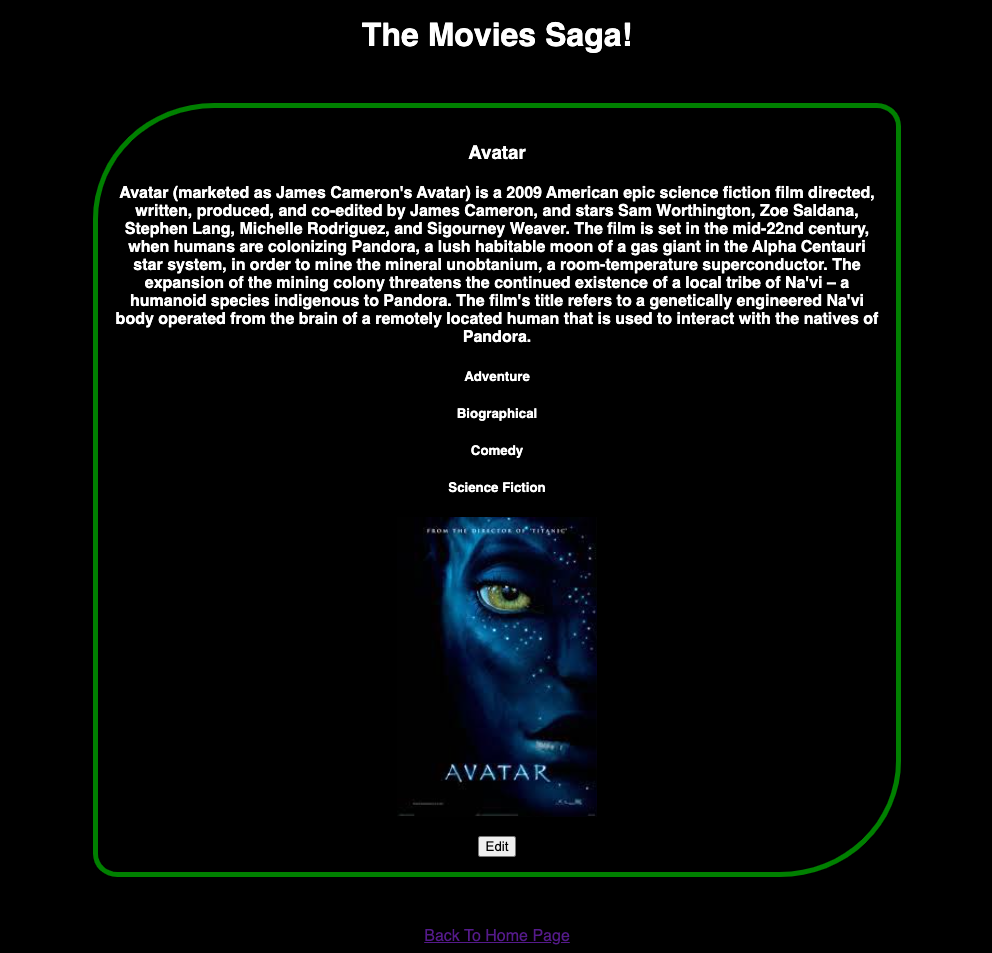
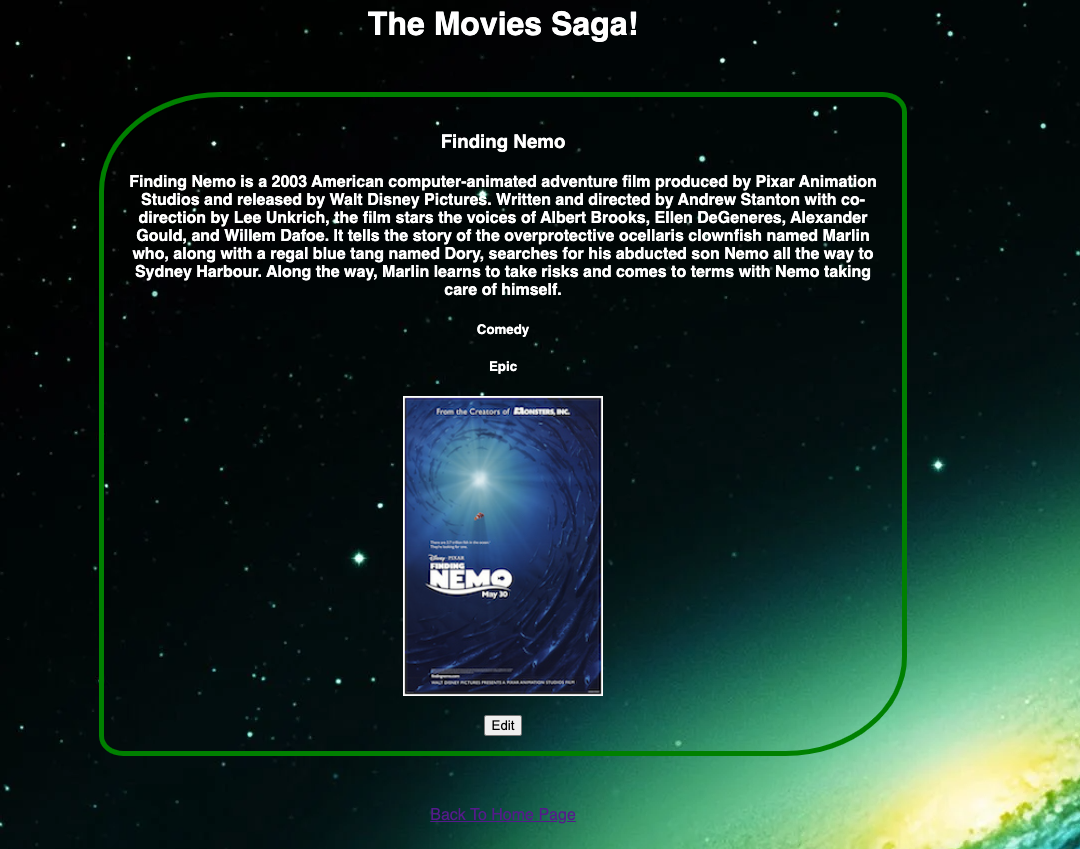
finished sort by feature and changed the screenshot to match new background

diff --git a/src/components/MovieDetails/MovieDetails.jsx b/src/components/MovieDetails/MovieDetails.jsx
@@ -46,7 +46,7 @@ export default function MovieDetails() {
             editingModeVariable = !editingModeVariable
 
         setInEditMode(editingModeVariable)
-        setEditedMovieInfo({id: Number(id), title: movie[0].title, description: movie[0].description})
+        setEditedMovieInfo({id: Number(id), title: movie.title, description: movie.description})
     }
 
     //Used to make saga call for adding new genres to movies
@@ -74,7 +74,7 @@ export default function MovieDetails() {
                 {/* Conditional render for edit mode */}
             {
                 !inEditMode ?
-                    <h3>{movie[0] && movie[0].title}</h3> 
+                    <h3>{movie && movie.title}</h3> 
                     : 
                     <>
                         <input 
@@ -88,7 +88,7 @@ export default function MovieDetails() {
                 {/* Conditional render for edit mode */}
             {
                 !inEditMode ? 
-                    <h4>{movie[0] && movie[0].description}</h4> 
+                    <h4>{movie && movie.description}</h4> 
                     : 
                     <>
                         <textarea 
@@ -128,13 +128,13 @@ export default function MovieDetails() {
                 {/* Conditional render for edit mode */}
             {
                 !inEditMode?
-                movie[0] && movie[0].genre.map((g) => (
+                movie.genre && movie.genre.map((g) => (
                     <>
                         <h5 key={g.id}>{g.name}</h5>
                     </>
                 )) 
                 :
-                movie[0] && movie[0].genre.map((g) => (
+                movie && movie.genre.map((g) => (
                     <>
                         <div>
                             <h5 className="genreDeleteBtn" key={g.id}>{g.name}</h5>
@@ -147,7 +147,7 @@ export default function MovieDetails() {
                 )) 
             }
             
-            <img className="details-poster" src={movie[0] && movie[0].poster}/><br></br>
+            <img className="details-poster" src={movie && movie.poster}/><br></br>
                 {/* Conditional render for edit mode */}
             {
                 !inEditMode &&   

diff --git a/src/index.js b/src/index.js
@@ -16,6 +16,7 @@ import { takeEvery } from 'redux-saga/effects';
 import genres from './Redux/Reducers/genres';
 import movieDetails from './Redux/Reducers/movieDetails';
 import movies from './Redux/Reducers/movies';
+import moviesSortedByGenres from './Redux/Reducers/moviesSortedByGenres';
 
 //Importing Sagas
 import fetchMovieDetails from './Redux/Sagas/fetchMovieDetails';
@@ -25,6 +26,7 @@ import updateMovieDetails from './Redux/Sagas/updateMovieDetails';
 import addGenreToMovie from './Redux/Sagas/addGenreToMovie';
 import deleteGenreFromMovie from './Redux/Sagas/deleteGenreFromMovie';
 import fetchGenreList from './Redux/Sagas/fetchGenreList';
+import fetchMoviesByGenres from './Redux/Sagas/fetchMoviesByGenres';
 
 // Create the rootSaga generator function
 function* rootSaga() {
@@ -35,6 +37,7 @@ function* rootSaga() {
     yield takeEvery('ADD_GENRE_TO_MOVIE', addGenreToMovie);
     yield takeEvery('DELETE_GENRE_FROM_MOVIE', deleteGenreFromMovie);
     yield takeEvery('FETCH_GENRE_LIST', fetchGenreList);
+    yield takeEvery('FETCH_MOVIES_BY_GENRE', fetchMoviesByGenres)
 }
 // Create sagaMiddleware
 const sagaMiddleware = createSagaMiddleware();
@@ -45,6 +48,7 @@ const storeInstance = createStore(
         movies,
         genres,
         movieDetails,
+        moviesSortedByGenres
     }),
     // Add sagaMiddleware to our store
     applyMiddleware(sagaMiddleware, logger),

diff --git a/src/components/MoviesSortedByGenre/MoviesSortedByGenres.jsx b/src/components/MoviesSortedByGenre/MoviesSortedByGenres.jsx
@@ -1,0 +1,38 @@
+import { useSelector, useDispatch } from "react-redux"
+import { useEffect } from "react"
+import { useParams } from "react-router-dom"
+import GenreList from "../GenreList/GenreList"
+import MovieListItem from "../MovieListItem/MovieListItem"
+import { Link } from "react-router-dom"
+
+
+export default function MoviesSortedByGenres() {
+    const movies = useSelector(store => store.moviesSortedByGenres)
+    const dispatch = useDispatch()
+    const params = useParams();
+
+    useEffect(() => {
+        dispatch({
+            type: 'FETCH_MOVIES_BY_GENRE',
+            payload: params.genre
+        })
+        dispatch({type: 'FETCH_GENRE_LIST'})
+    }, [params.genre])
+
+    return(
+        <>
+            <h2>{params.genre}</h2>
+            <GenreList />
+            <section className="movies">
+                {movies && movies.map(movie => {
+                    return (
+                        <div className='movieCard' key={movie.id} >
+                            <MovieListItem movie={movie}/>
+                        </div>
+                    );
+                })}
+            </section>
+            <Link to="/">Back To Home Page</Link>
+        </>
+    )
+}

diff --git a/src/components/GenreList/GenreList.jsx b/src/components/GenreList/GenreList.jsx
@@ -1,5 +1,6 @@
 import { useSelector } from "react-redux";
 import './genreList.css'
+import { Link } from "react-router-dom";
 
 //Component used to display the list of genres on top of the list of movies
 export default function GenreList() {
@@ -12,7 +13,7 @@ export default function GenreList() {
             <div className="genreListContainer">
                 {genres.map(g => (
                     <div className="genreListItems">
-                    <h5>{g.name}</h5>
+                        <Link to={`/genres/${g.name}`}><h5>{g.name}</h5></Link>
                     </div>
                 ))}
             </div>

diff --git a/server/routes/genre.router.js b/server/routes/genre.router.js
@@ -65,4 +65,26 @@ router.delete('/', (req, res) => {
       })
 })
 
+router.get('/:genre', (req, res) => {
+
+  const moviesByGenre = `
+    SELECT movies.*
+    FROM movies
+    JOIN movies_genres
+      ON movies_genres.movie_id = movies.id
+    JOIN genres
+      ON movies_genres.genre_id = genres.id
+    WHERE genres.name = $1;  
+  `
+  pool.query(moviesByGenre, [req.params.genre])
+      .then(dbRes => {
+        res.send(dbRes.rows)
+      })
+      .catch(err => {
+        console.error('Failed to get movies by genres', err)
+      })
+
+})
+
+
 module.exports = router;

diff --git a/src/components/App/App.js b/src/components/App/App.js
@@ -3,6 +3,7 @@ import './App.css';
 import MovieList from '../MovieList/MovieList'
 import MovieDetails from '../MovieDetails/MovieDetails';
 import MovieForm from '../MovieForm/MovieForm';
+import MoviesSortedByGenres from '../MoviesSortedByGenre/MoviesSortedByGenres';
 
 function App() {
   return (
@@ -22,6 +23,11 @@ function App() {
         <Route path="/add-movie" exact>
           <MovieForm />
         </Route>
+
+        <Route path="/genres/:genre" exact>
+          <MoviesSortedByGenres />
+        </Route>
+
       </Router>
     </div>
   );

diff --git a/src/Redux/Sagas/fetchMoviesByGenres.jsx b/src/Redux/Sagas/fetchMoviesByGenres.jsx
@@ -1,0 +1,15 @@
+import axios from "axios"
+import { put } from "redux-saga/effects"
+
+export default function* fetchMoviesByGenres(action) {
+    try{
+        const res = yield axios.get(`/api/genre/${action.payload}`)
+        yield put({
+            type:'SET_MOVIES_BY_GENRES',
+            payload: res.data
+        })
+    }
+    catch{
+
+    }
+}

diff --git a/server/routes/movie.router.js b/server/routes/movie.router.js
@@ -40,7 +40,7 @@ router.get('/:id', (req, res) => {
 
   pool.query(movieDetailsQuery, movieDetailsParams)
       .then((dbRes) => {
-        res.send(dbRes.rows)
+        res.send(dbRes.rows[0])
       })
       .catch((err) => {
         console.log('Failed to get movie details', err)

diff --git a/src/Redux/Reducers/moviesSortedByGenres.jsx b/src/Redux/Reducers/moviesSortedByGenres.jsx
@@ -1,0 +1,9 @@
+export default function moviesSortedByGenres(state = [], action) {
+
+    switch(action.type){
+        case 'SET_MOVIES_BY_GENRES':
+            return action.payload;
+        default:
+            return state;
+    }
+}

diff --git a/README.md b/README.md
@@ -6,12 +6,14 @@ _Duration: 22 hour Sprint_
 
 I Made an app that will allow you to keep track of some movies as well as the poster and the description. Using React router to have different pages to be able to have a better view of the description of the movies as well as seeing what genre category you would put them in.
 
-To see the fully functional site, please visit: [DEPLOYED VERSION OF APP](https://glacial-springs-57525.herokuapp.com/#/)
+To see the fully functional site, please visit: [](https://glacial-springs-57525.herokuapp.com/#/)
 
 ## Screen Shot
 
-[Screenshot of the home page](./img/homepage.png)
-[Screenshot of details page](./img/details.png)
+![Screenshot of the home page](./img/homepage.png')
+![Screenshot of details page](./img/details.png')
+![Screenshot of by Genres]('./img/byGenre.png')
+![Screenshot of edit mode]('./img/editmode.png')
 
 ### Prerequisites
 
